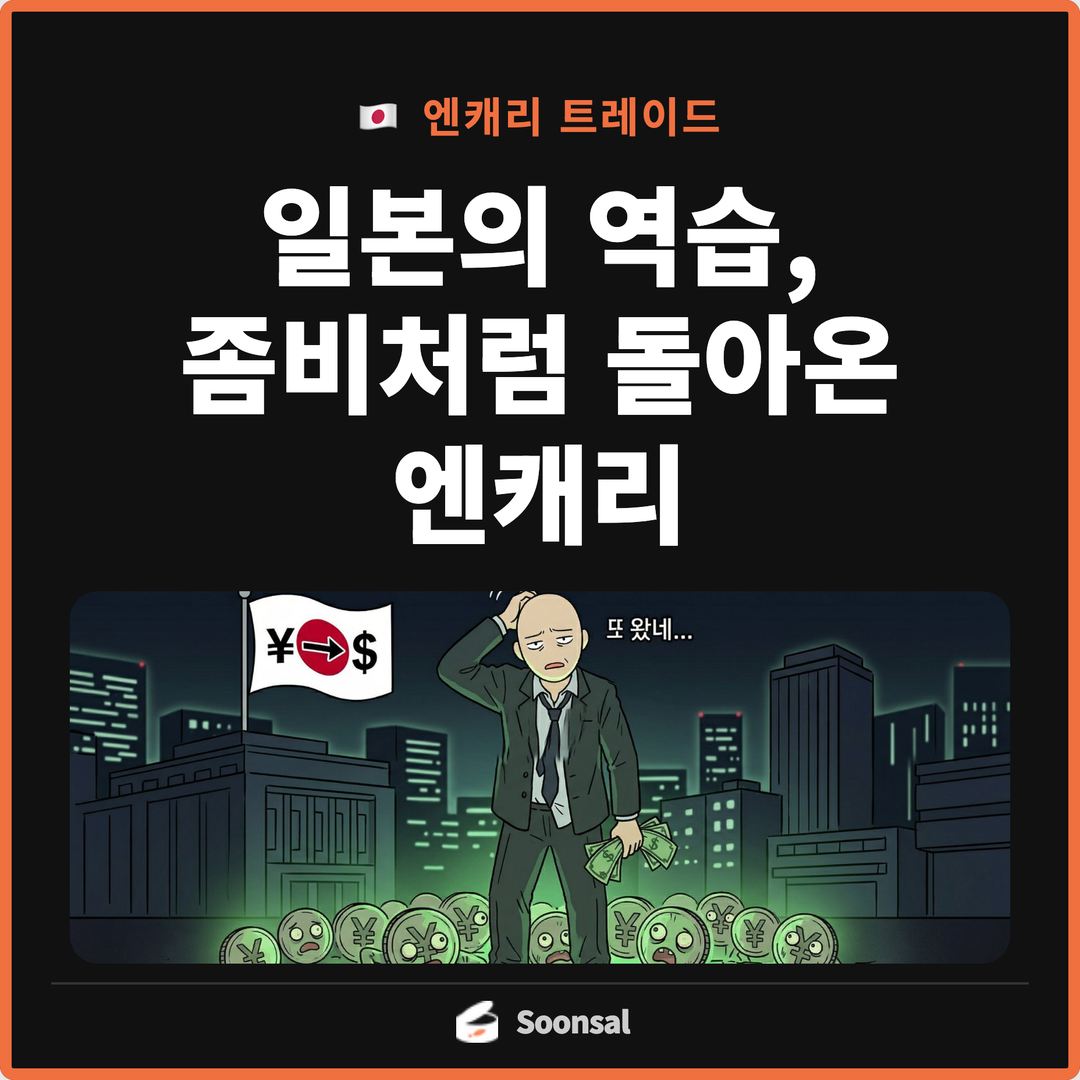
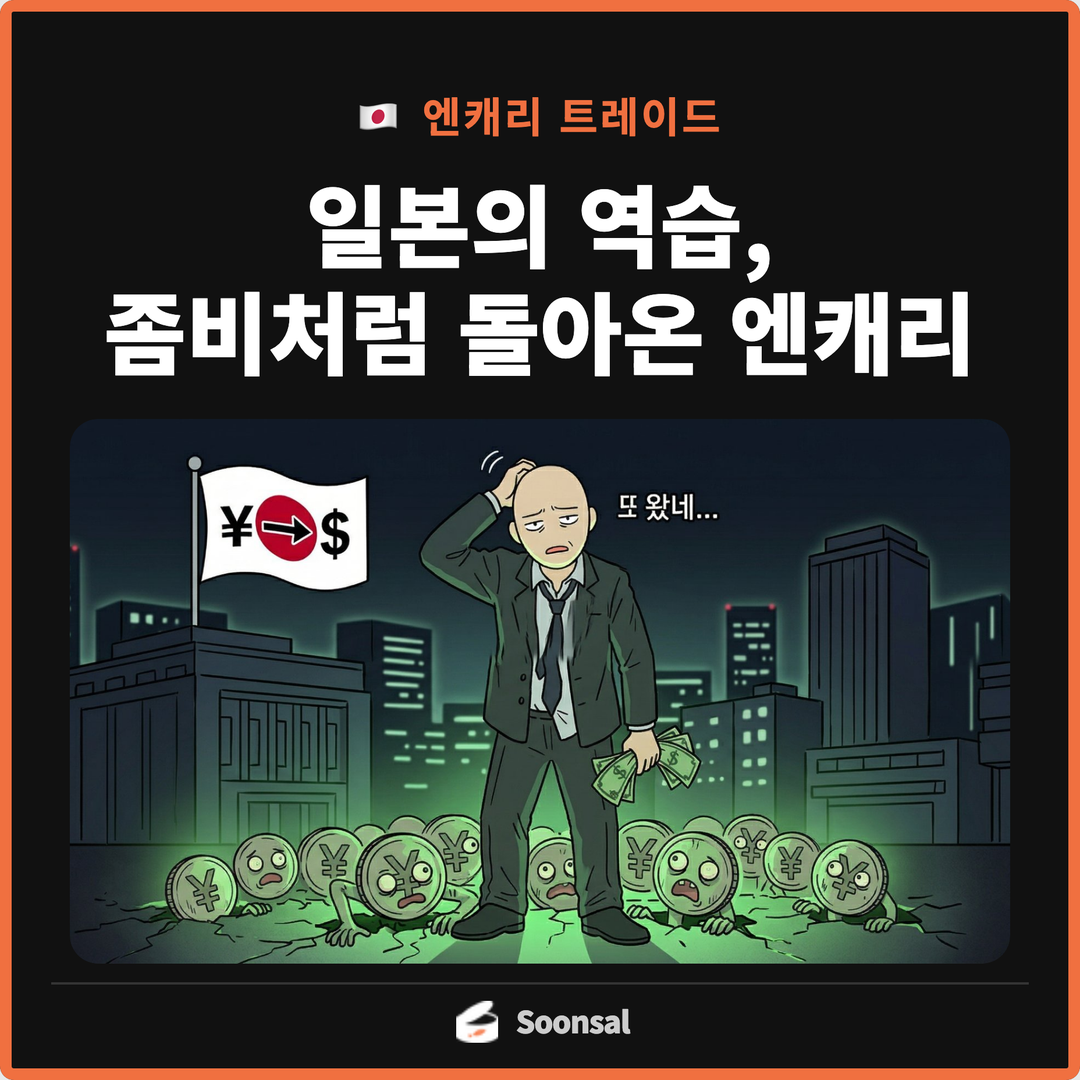
Add 순살카드뉴스 0408

diff --git a/cardnews/2026/0408.html b/cardnews/2026/0408.html
@@ -58,7 +58,7 @@
     body { padding: 16px 8px; gap: 20px; }
     .card { width: 100%; max-width: 540px; height: auto; aspect-ratio: 1 / 1; padding: 20px 22px 16px; gap: 8px; }
     .top-text { font-size: 28px !important; line-height: 1.35; }
-    .top-text.cover-title { font-size: clamp(44px, 9.6vw, 52px) !important; line-height: 1.15; }
+    .top-text.cover-title { font-size: clamp(36px, 8vw, 42px) !important; line-height: 1.2; }
     .bottom-text { font-size: 21px !important; line-height: 1.35; }
     .illust svg { max-width: 100%; max-height: 100%; }
     .logo-row { padding-top: 6px; }
